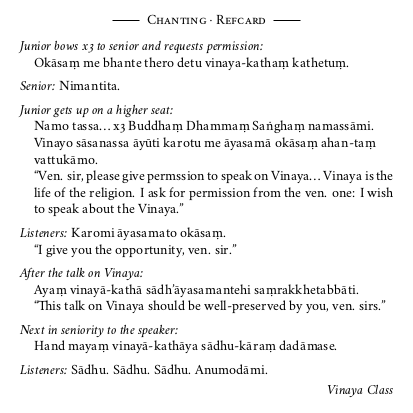
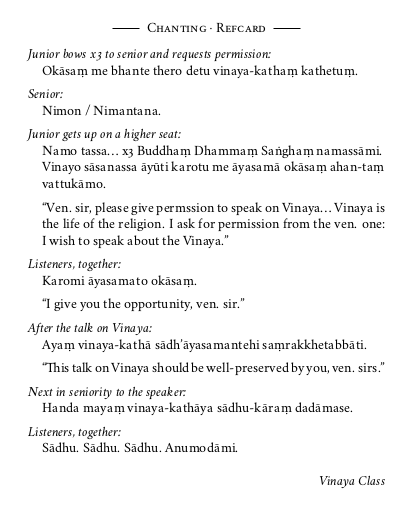
upd

Changed region(s): [[0.0291, 0.0291, 0.9588, 0.9298], [0.7554, 0.9298, 0.9588, 0.9588], [0.6683, 0.0291, 0.7264, 0.0581]]

diff --git a/00-vinaya-class.html b/00-vinaya-class.html
@@ -168,7 +168,7 @@
 <h2><a class="header" href="#chanting-refcard" id="chanting-refcard">Chanting Refcard</a></h2>
 <p><a href="./includes/docs/chanting-refcard.pdf">chanting-refcard.pdf</a></p>
 <p><a href="./includes/docs/chanting-refcard-4on1.pdf">chanting-refcard-4on1.pdf</a></p>
-<p><a href="./includes/docs/chanting-refcard.pdf"><img src="./includes/docs/chanting-refcard-thumb.png" alt="Chanting Refcard" /></a></p>
+<p><a href="./includes/docs/chanting-refcard-4on1.pdf"><img src="./includes/docs/chanting-refcard-4on1-thumb.png" alt="Chanting Refcard" /></a></p>
 <h2><a class="header" href="#vinayakamma" id="vinayakamma">Vinayakamma</a></h2>
 <p><a href="./includes/docs/vinayakamma-chart.pdf">vinayakamma-chart.pdf</a></p>
 <p><a href="./includes/docs/vinayakamma-chart.pdf"><img src="./includes/docs/vinayakamma-chart-thumb.png" alt="Vinayakamma Chart" /></a></p>

diff --git a/index.html b/index.html
@@ -168,7 +168,7 @@
 <h2><a class="header" href="#chanting-refcard" id="chanting-refcard">Chanting Refcard</a></h2>
 <p><a href="./includes/docs/chanting-refcard.pdf">chanting-refcard.pdf</a></p>
 <p><a href="./includes/docs/chanting-refcard-4on1.pdf">chanting-refcard-4on1.pdf</a></p>
-<p><a href="./includes/docs/chanting-refcard.pdf"><img src="./includes/docs/chanting-refcard-thumb.png" alt="Chanting Refcard" /></a></p>
+<p><a href="./includes/docs/chanting-refcard-4on1.pdf"><img src="./includes/docs/chanting-refcard-4on1-thumb.png" alt="Chanting Refcard" /></a></p>
 <h2><a class="header" href="#vinayakamma" id="vinayakamma">Vinayakamma</a></h2>
 <p><a href="./includes/docs/vinayakamma-chart.pdf">vinayakamma-chart.pdf</a></p>
 <p><a href="./includes/docs/vinayakamma-chart.pdf"><img src="./includes/docs/vinayakamma-chart-thumb.png" alt="Vinayakamma Chart" /></a></p>

diff --git a/print.html b/print.html
@@ -170,7 +170,7 @@
 <h2><a class="header" href="#chanting-refcard" id="chanting-refcard">Chanting Refcard</a></h2>
 <p><a href="./includes/docs/chanting-refcard.pdf">chanting-refcard.pdf</a></p>
 <p><a href="./includes/docs/chanting-refcard-4on1.pdf">chanting-refcard-4on1.pdf</a></p>
-<p><a href="./includes/docs/chanting-refcard.pdf"><img src="./includes/docs/chanting-refcard-thumb.png" alt="Chanting Refcard" /></a></p>
+<p><a href="./includes/docs/chanting-refcard-4on1.pdf"><img src="./includes/docs/chanting-refcard-4on1-thumb.png" alt="Chanting Refcard" /></a></p>
 <h2><a class="header" href="#vinayakamma" id="vinayakamma">Vinayakamma</a></h2>
 <p><a href="./includes/docs/vinayakamma-chart.pdf">vinayakamma-chart.pdf</a></p>
 <p><a href="./includes/docs/vinayakamma-chart.pdf"><img src="./includes/docs/vinayakamma-chart-thumb.png" alt="Vinayakamma Chart" /></a></p>
